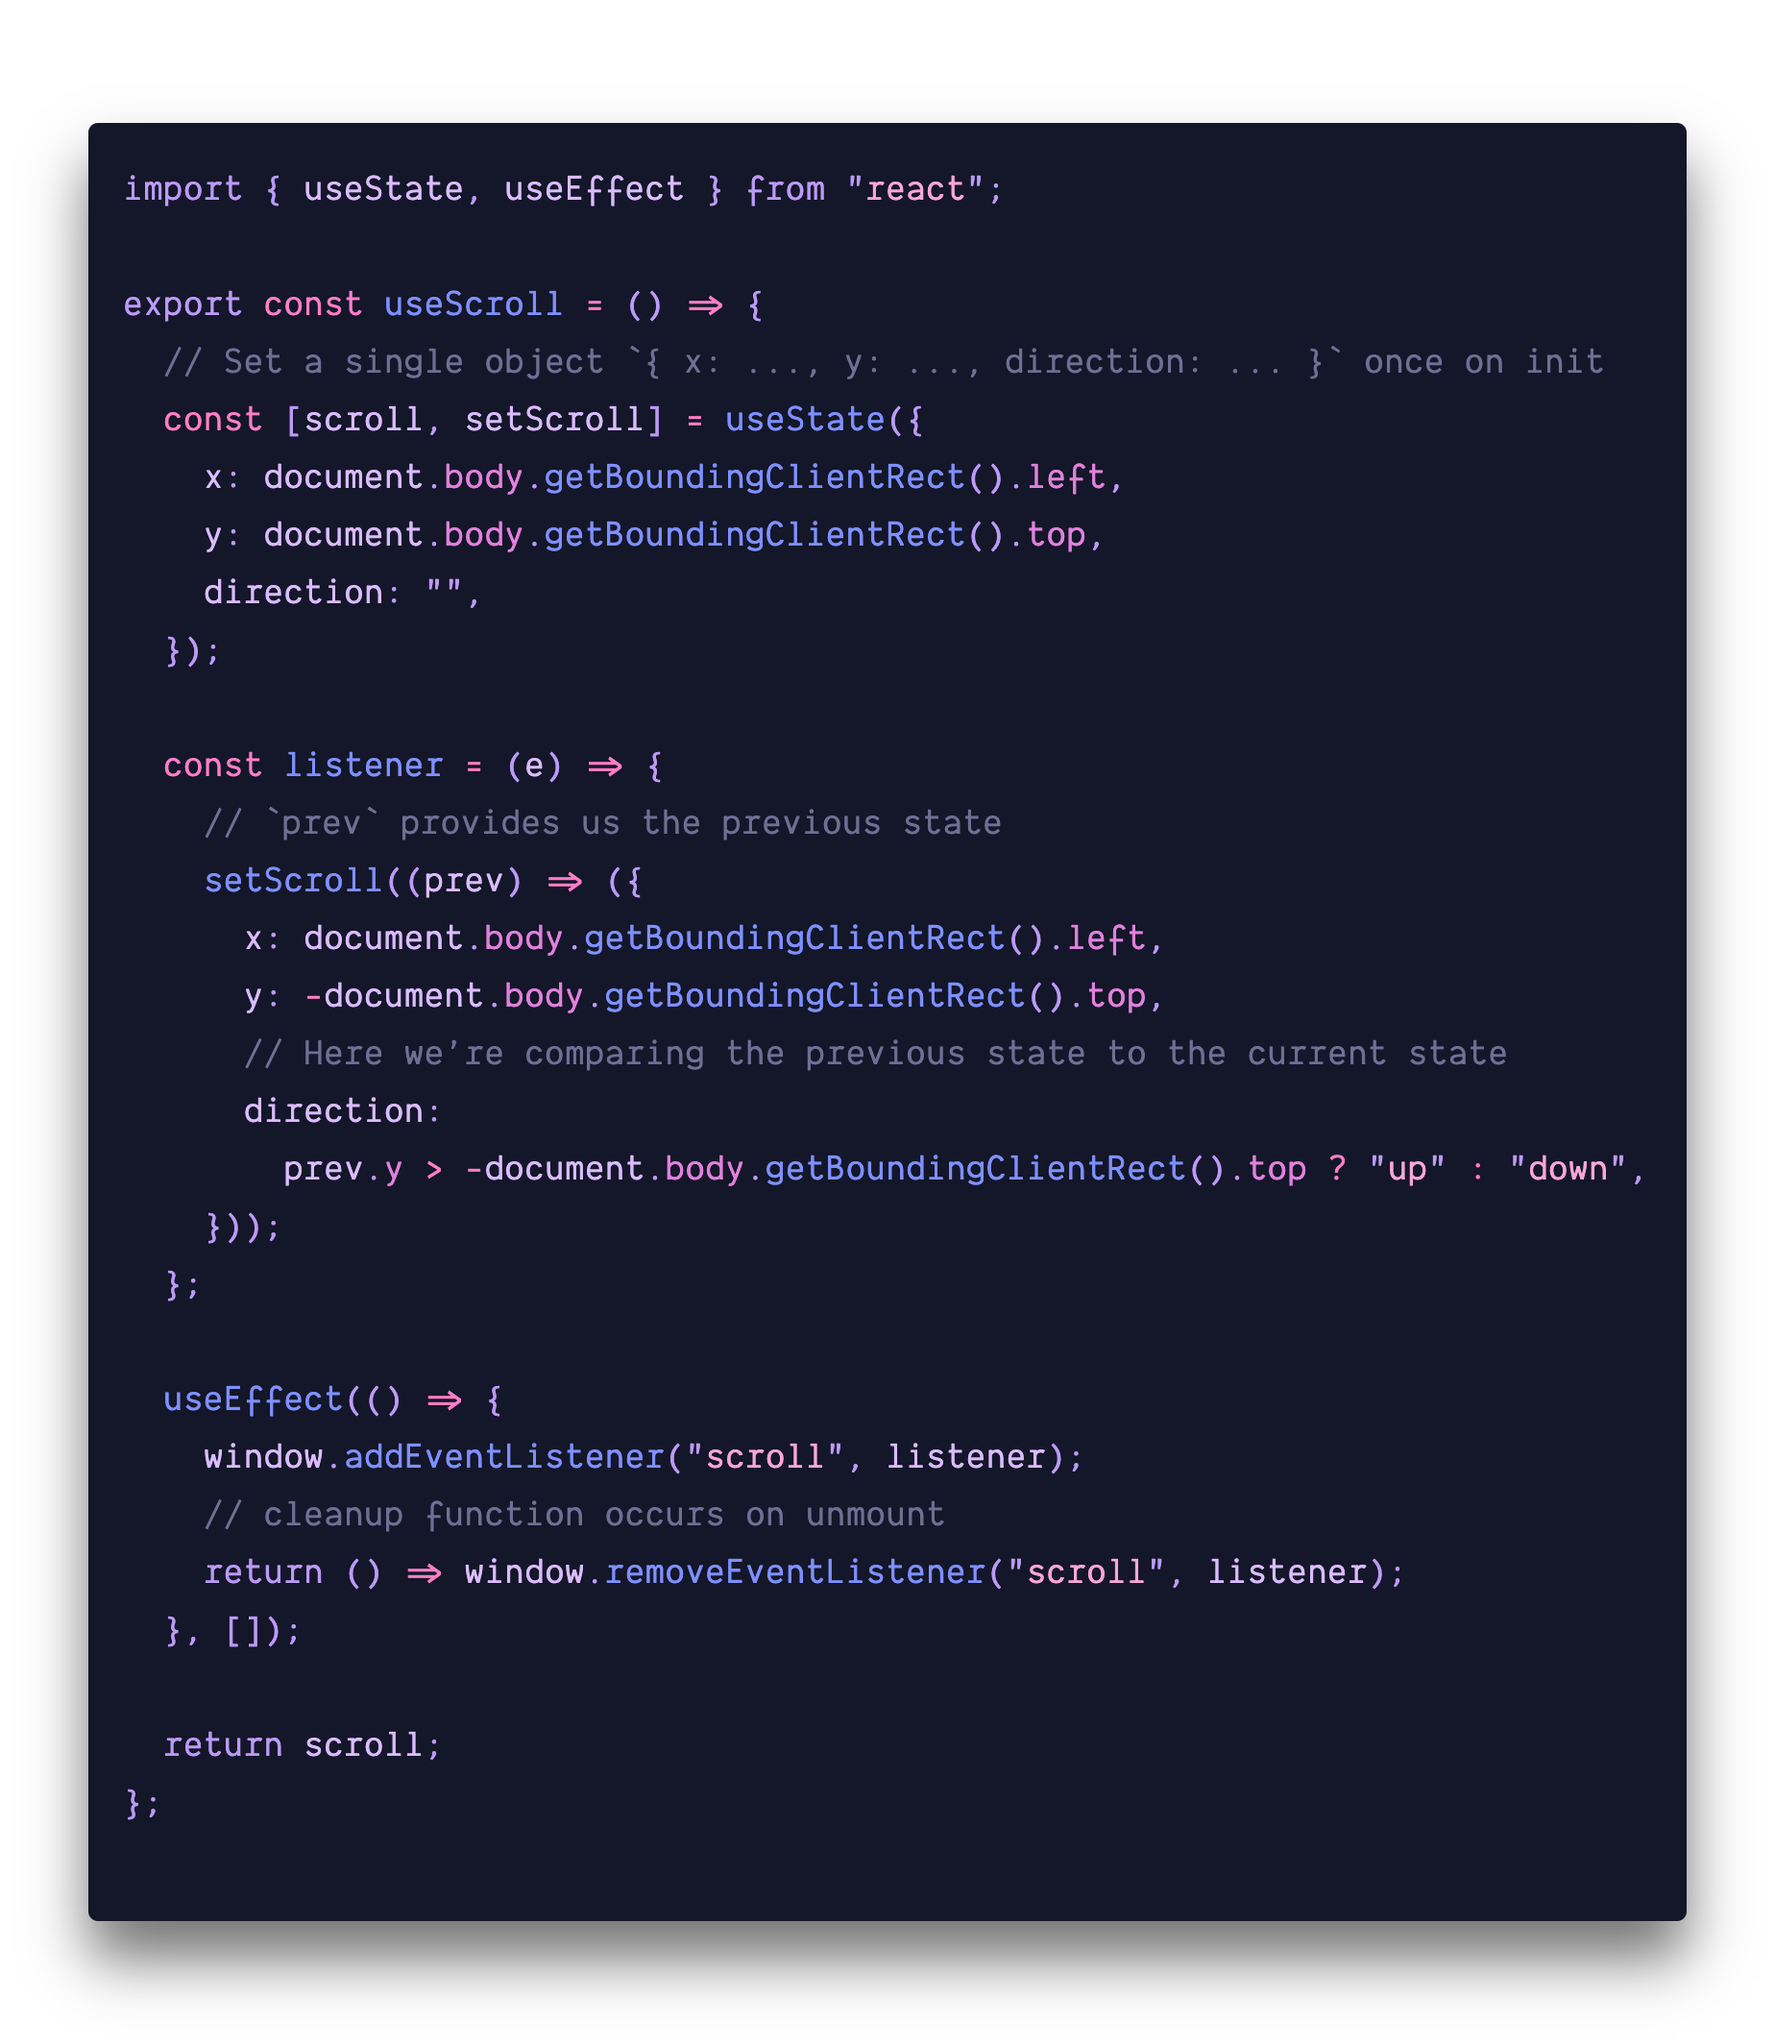
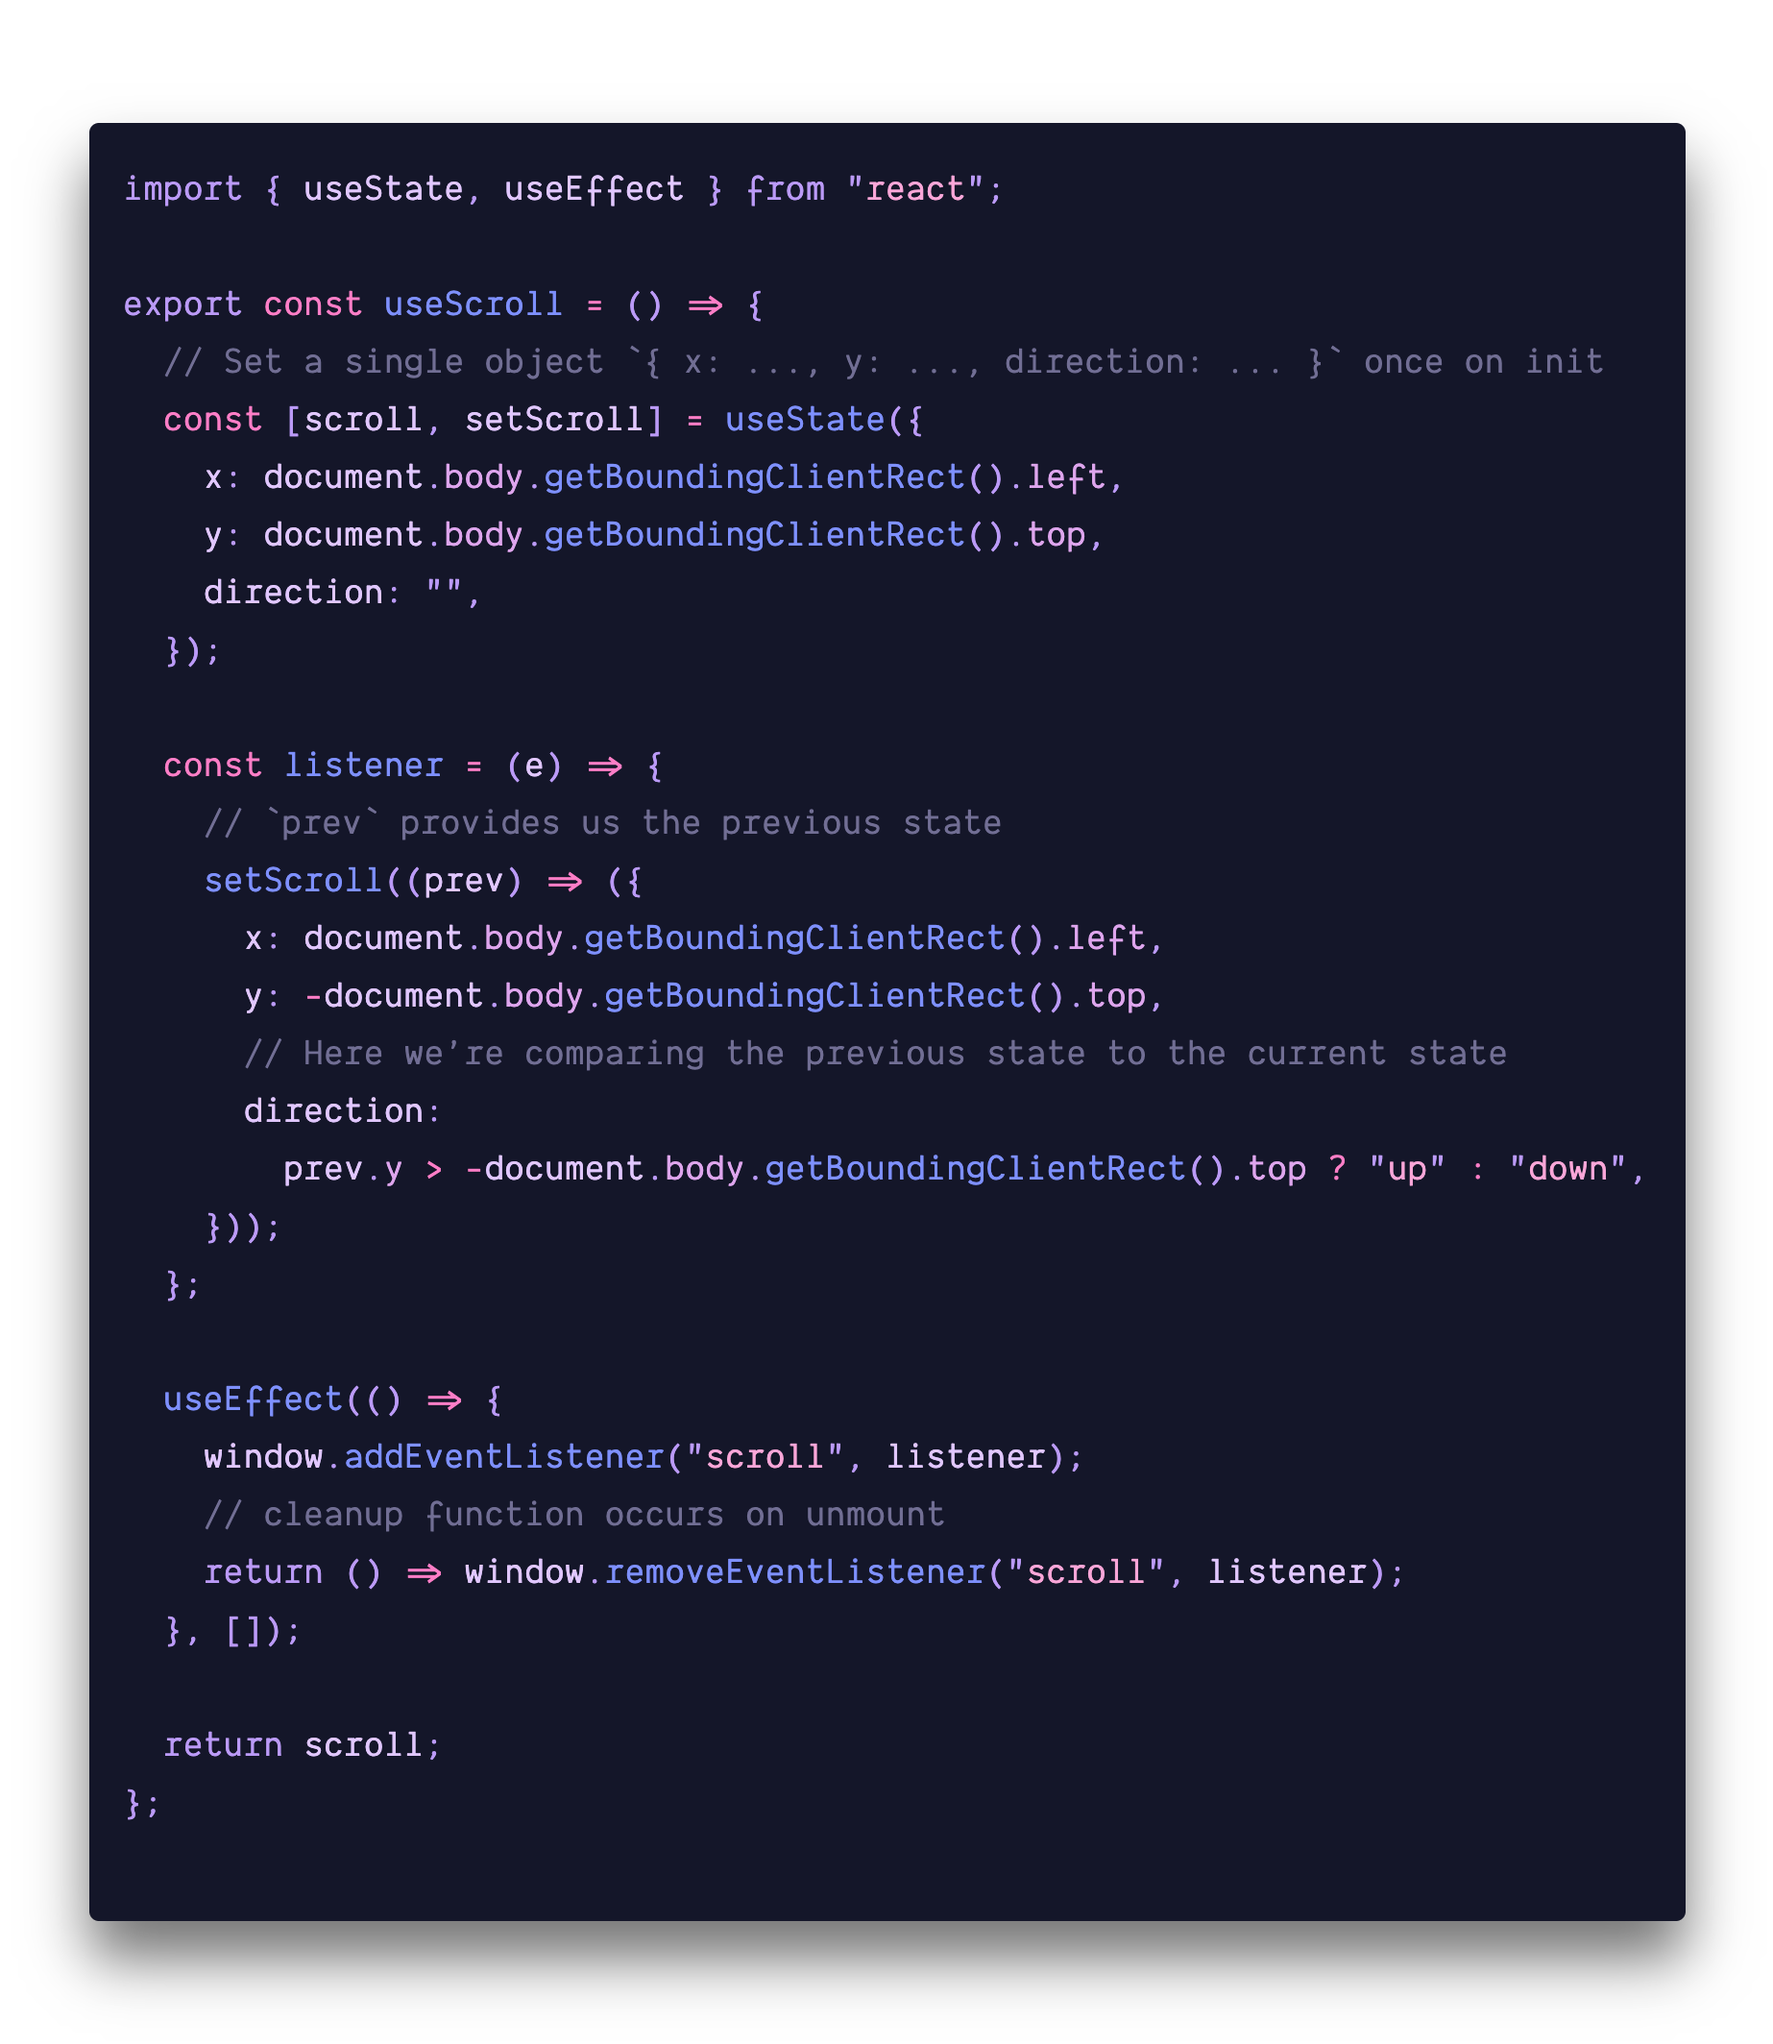
Change keyword syntax colors in Laravel blade files

diff --git a/README.md b/README.md
@@ -5,9 +5,9 @@
 
 A mellow, but colorful VS Code dark theme with vibrant shades of pink and purple.
 
-I set out to make a dark theme versatile enough for any time of day that could better enable me to <s>stare endlessly at broken blocks of code while I contemplate possible career changes</s> work hard on so many very important things and projects.
+I set out to make a theme versatile enough for any time of day that could better enable me to <s>stare blankly at broken blocks of code while contemplating possible career changes</s> work tirelessly on so many exciting and personally fulfilling projects.
 
-![Default Nightcall Theme](https://github.com/bpat86/nightcall-vscode-theme/raw/main/react-main.png?id=1155040621 "Default Nightcall Theme")
+![Default Nightcall Theme](https://github.com/bpat86/nightcall-vscode-theme/raw/main/js.png?id=04230417 "Default Nightcall Theme")
 
 ## Installation
 
@@ -20,7 +20,7 @@ I set out to make a dark theme versatile enough for any time of day that could b
 ## No Italics
 
 If you don't like italics (how dare you), select **Nightcall (No Italics)** as the theme.
-![Nightcall No Italics Theme](https://github.com/bpat86/nightcall-vscode-theme/raw/main/react-main_no-italics.png?id=1155040621 "Nightcall No Italics Theme")
+![Nightcall No Italics Theme](https://github.com/bpat86/nightcall-vscode-theme/raw/main/js_no-italics.png?id=04230417 "Nightcall No Italics Theme")
 
 ## Separate the Editor from the Sidebar
 

diff --git a/CHANGELOG.md b/CHANGELOG.md
@@ -2,12 +2,13 @@
 
 All notable changes to the "nightcall" extension will be documented in this file.
 
-## "0.5.3"
+## "0.5.4"
 
-- Changed keyword syntax color in Laravel blade files
+- Changed keyword syntax colors in Laravel blade files
 - Adjusted pink colors to be less hot
 - Adjusted the lightest shade of purple to be brighter
 - Adjusted the red color to be less orange
+- Updated screenshots
 
 ## "0.5.2"
 
